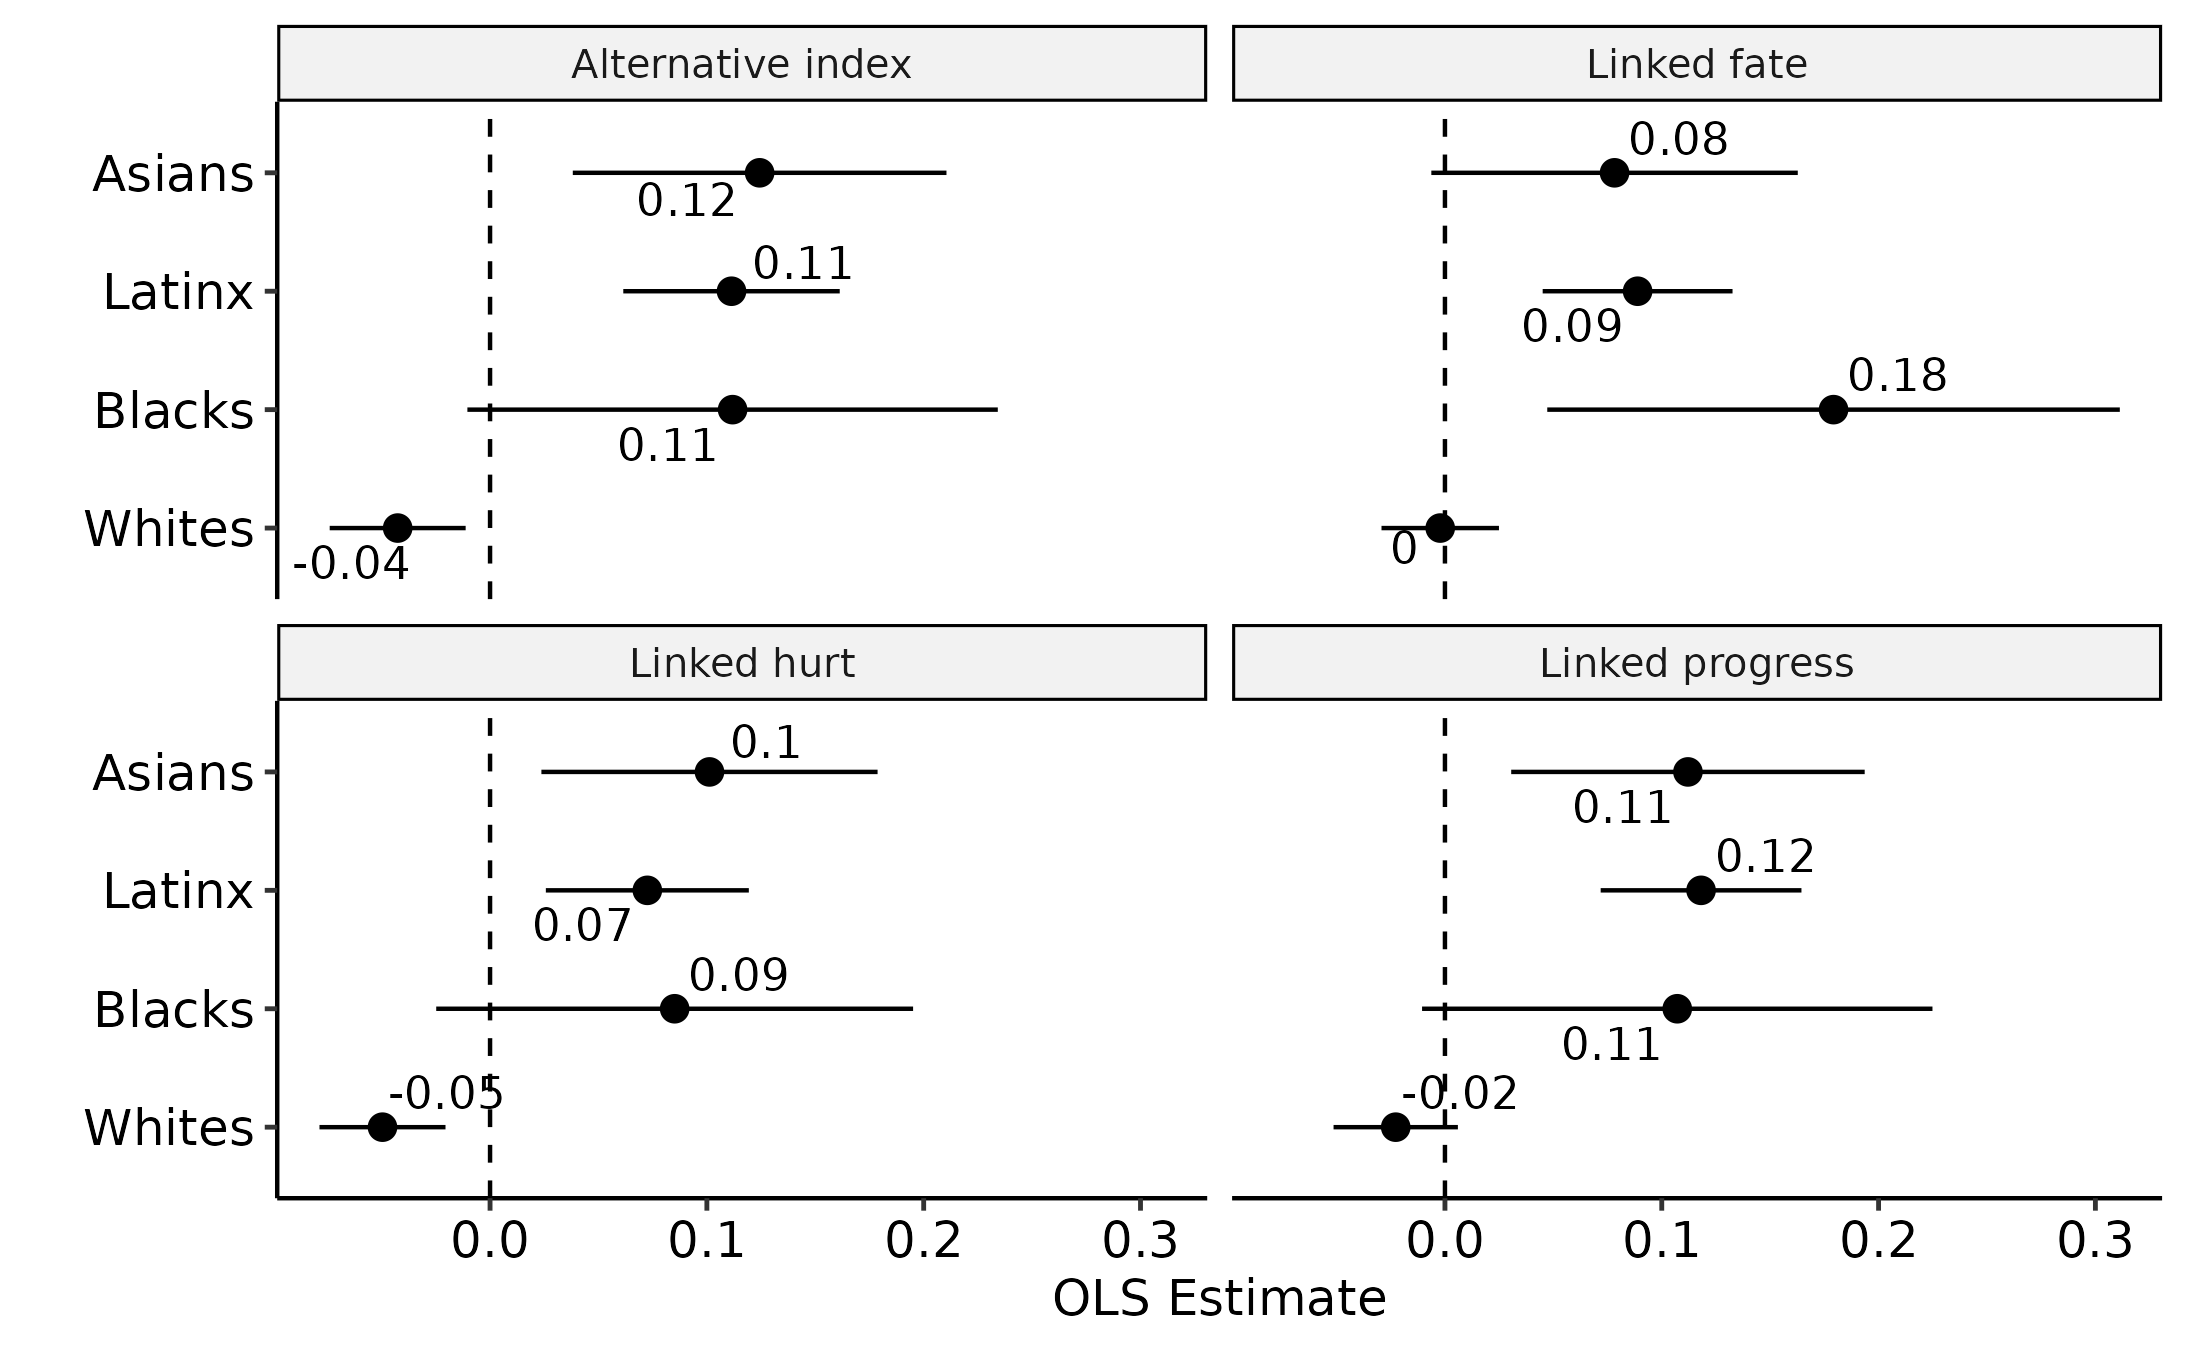
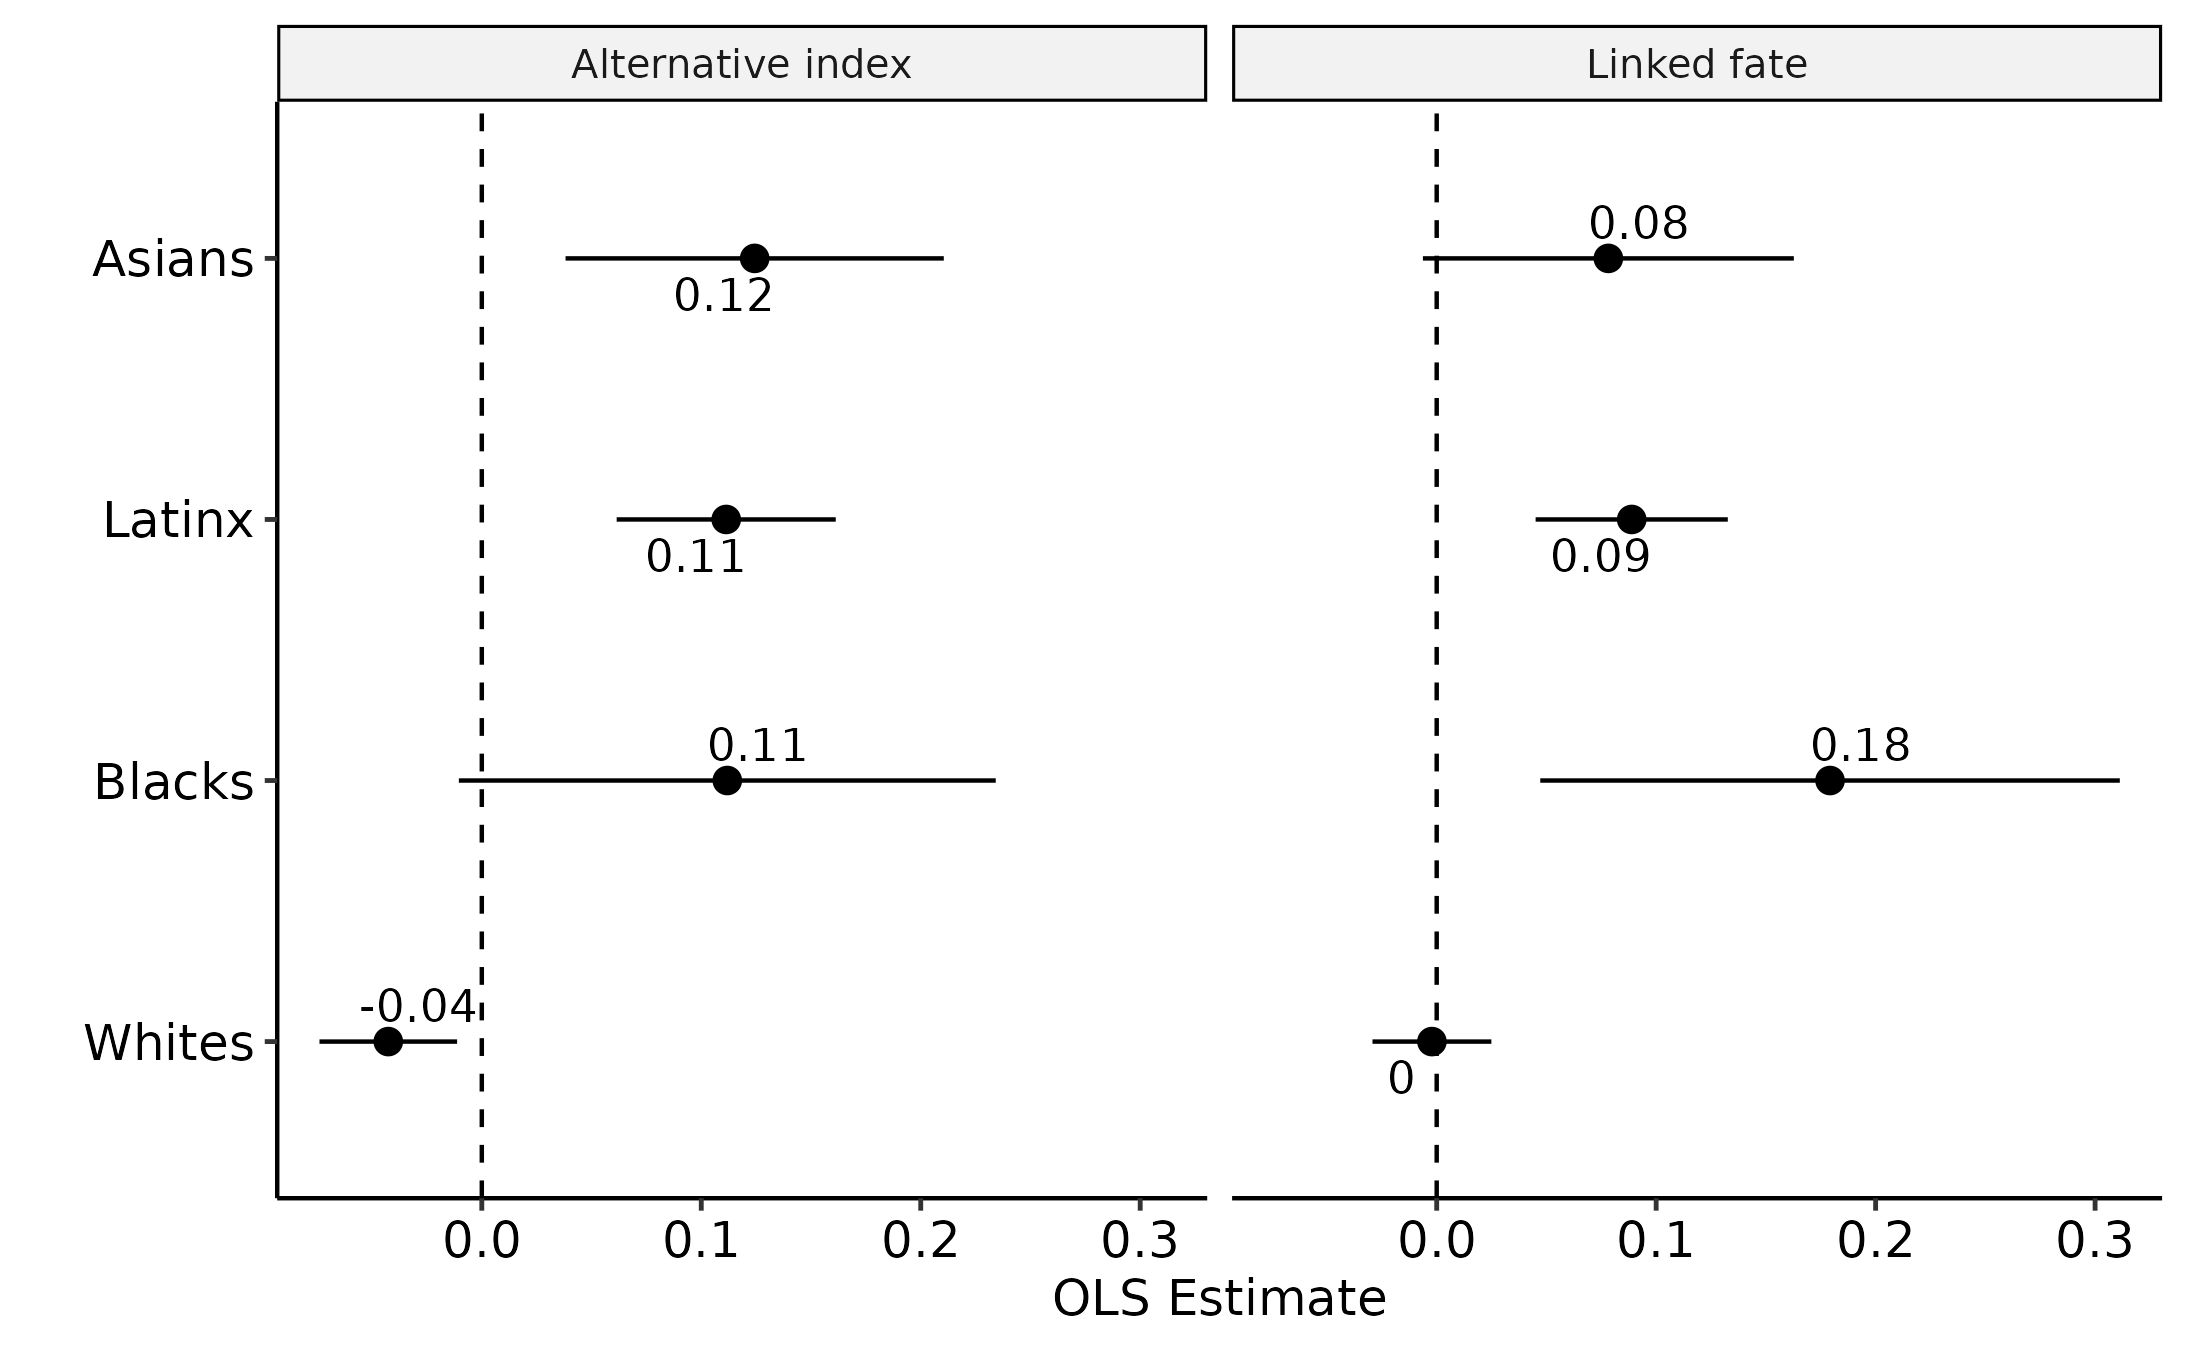
better visuals

diff --git a/README.md b/README.md
@@ -3,98 +3,3 @@
 **Identifying and validating multiple interpretations of linked fate**
 
 - Preprint: https://osf.io/preprints/socarxiv/k6c9x
-
-## Overview
-
-This project investigates how people interpret linked fate, a major measure of group consciousness in identity politics. Dawson's [*Behind the Mule*](https://books.google.com/books?hl=en&lr=&id=0-I9DwAAQBAJ&oi=fnd&pg=PP11&ots=sEoMI1VStP&sig=NLmBqid3hZa2GKO1lpMvSPdYTQo#v=onepage&q&f=false) (1994) argues that African Americans remain a cohesive racial group despite the growing within-group economic inequality, because the centuries-long experience of racial discrimination ties their individual and group utility together. He called this connection "linked fate", and since then, linked fate has become a popular measure of group solidarity across diverse group contexts (a Google Scholar search yields [more than 2700 results](https://scholar.google.com/scholar?hl=en&as_sdt=0%2C5&q=%22linked+fate%22&btnG=)).
-
-In this project, [Alan Yan](https://politics.princeton.edu/people/alan-yan) and I argue the linked fate literature has a measure problem. Scholars have measured the expressed strength of linked fate by asking survey respondents to what extent they agree that what happens to their group also influences their life. The issue is people may think about that connection in two different ways: **linked progress** and **linked hurt**. Linked progress is a positive mechanism which suggests that an individual thinks they progress when their group progresses. Linked hurt is a negative mechanism which indicates that an individual thinks that they get hurt when their group gets hurt. According to Dawson's black utility heuristics theory, the linked hurt interpretation is more plausible because discrimination is the driving force. But how do we know?
-
-Using a California-wide survey data (N = 4,435) and novel measures of linked fate, we demonstrated how distinguishing these interpretations matter for the empirical study of identity politics.
-
-1. Linked progress, on average, scored higher than linked hurt across all racial groups, including African Americans. This finding was inconsistent with Dawson's original theory.
-2. People expressed stronger group consciousness when they were asked about it through the standard linked fate question. White group consciousness disappeared when we used more specific linked fate questions. This finding raised a question about how white group politics are different from those of other racial groups.
-
-## Research design
-
-### Hypothesis
-
-The standard way of measuring linked fate is to ask the following question to the survey participants:
-
-- **Linked fate**: Do you agree or disagree? What happens to (Latinos/whites/blacks and African Americans/Asians/Pacific Islanders/American Indians) in this country will have something to do with what happens in my life.
-
-In addition to using this standard measure, we added two novel measures of linked fate that determine whether linked fate is interpreted in the context of a positive or a negative relationship between group and individual utility.
-
-- **Linked progress**: Do you agree or disagree? When things get better for (Latinos/whites/blacks and African Americans/Asians/Pacific Islanders/American Indians) in this country, then things will get better for me.
-- **Linked hurt**: Do you agree or disagree? When things get worse for (Latinos/whites/blacks and African Americans/Asians/Pacific Islanders/ American Indians) in this country, then things will get worse for me.
-
-Our main hypotheses were as follows:
-1. Linked fate, linked progress, and linked hurt will yield statistically different levels of responses.
-2. If the measure is consistent with Dawson's theory, linked hurt will be more strongly correlated with linked hurt than linked progress responses, especially among African Americans (convergent validity).
-
-### Data collection
-
-We tested this hypothesis by embedding the above three questions in a California-wide survey (n = 4,435), carried out by the Institute of Government Studies at the University of California Berkeley in June 2019.
-
-- Random sampling: Random sampling was used based on publicly available email addresses in voter records as a sampling frame (see this [link](https://www.latimes.com/politics/la-na-pol-2020-how-poll-was-done-20190613-story.html) for more information on their sampling methods and this [link](https://sda.berkeley.edu/sdaweb/docs/IGS_2019_02/DOC/hcbkfx0.htm) for list of items used in the survey).
-- Random ordering: These questions were randomly ordered to accout for order bias.
-- Multiple choices: The responses to these questions were collected using four multiple choices (1 - Agree strongly, 2 - Agree somewhat, 3 - Disagree somewhat, 4 - Disagree strongly).
-
-## Workflow
-
-In the rest of the document, I describe how I have **cleaned**, **analyzed**, and **visualized** data. I have shared the R code I used in each step.
-
-### Data cleaning \[[Code](https://github.com/jaeyk/validating-two-linked-fates/blob/master/code/01_data_cleaning.Rmd)]
-
-- I recoded linked fate-related questions as follows: `4-strongly positive, 3-somewhat positive, 2- somewhat negative, 1-strongly negative`. This scale made it easier to interpret the results.
-- I identified missing responses from linked fate questions, which represented 5–6% of the responses, and inputted them using multiple additions (the `mice` package in R).
-- I only included participants who identified as white, African American, Latinx, and Asian American. Consequently, I dropped 150 participants (3% of the total number of participants) who were non-identified using these measures.
-
-### Data analysis and visualization \[[Code](https://github.com/jaeyk/validating-two-linked-fates/blob/master/code/02_data_analysis.Rmd)]
-
-#### Measures of Central Tendency
-
-![](https://github.com/jaeyk/validating-two-linked-fates/blob/master/outputs/descriptive_stat_plot.png)
-Figure 1. Mean and Standard Errors
-
-In Figure 1, the x-axis indicates the average score of responses to linked fate-related questions. The y-axis charts different racial groups. The mean describes the central tendency of the responses. The limitation is that it does not show how these data points are spread. For that reason, I also included the standard errors, which are indicated by the error bars. One side of the error bar indicates two standard errors.
-
-Figure 1 clearly demonstrates how the use of a different measure for linked fate yields a different level of response. Overall, the standard linked fate question drew the strongest expressed support for linked fate. On average, linked progress scored higher than linked hurt across all racial groups, including African Americans. These results do not necessarily mean that Dawson's theory is wrong because the data also provides evidence for the presence of linked hurt. However, the theory has failed to include the importance of linked progress mechanisms and its prevalence.
-
-#### Bar plots
-
-![](https://github.com/jaeyk/validating-two-linked-fates/blob/master/outputs/bar_plot.png)
-Figure 2. Descriptive analysis
-
-In Figure 2, the x-axis indicates the multi-choices offered in the linked fate questions. The y-axis plots the count of these choices. This more detailed look at the data reveals several interesting patterns.
-
-The pattern for the responses to the linked fate questions among African American respondents is consistent with the prediction of the black utility heuristics theory. The distribution is skewed left. It shows almost unanimous support for black solidarity.
-
-However, the same respondents became more skeptical when they were asked about the specific connection between their group and individual utility. We can see similar patterns across other racial groups, with white respondents’ answers representing an extreme example. In that case, the respondents began to disagree with the idea of white group consciousness more than they agreed with it.
-
-#### Reliability tests
-
-As the next step, I examined the correlation between the standard and nobel linked fate measures. The theory predicts that the responses of the standard linked fate measure should covary more closely with the responses of the linked hurt measure than with those of the linked progress measure. This hypothesis was not true across all racial groups except whites, where the correlation coefficients between these two relationships were quite close.
-
-I calculated the correlation coefficients using four different methods, as these methods made slightly different assumptions about the distribution of data points. The differences between them provided some additional insights into the data. The Pearson correlation coefficients assume that the two variables being measured have a linear relationship. These coefficients showed the highest numbers. The Spearman correlation coefficients are non-parametric, specifically rank-based measures. These measures provide smaller coefficients. 
-
-![](https://github.com/jaeyk/validating-two-linked-fates/blob/master/outputs/cor_coeffs_plot.png)
-Figure 3. Correlation tests results
-
-#### Difference of means test
-
-Finally, I would like to revisit Figure 1 and stress the extent to which using the standard linked fate question creates more positive responses compared to the more specific question. Here, the left panel (Hurt - Fate) shows the mean difference between the responses of the linked hurt question and those of the standard linked fate question. Similarly, the right panel (Progress - Fate) displays the mean difference between the responses of the linked progress question and those of the standard linked fate question. The x-axis charts different racial groups. The y-axis indicates the difference in means. In both cases, it is clear that using a specific question decreases the ratio of positive responses. The ratio decreases faster in the case of the linked hurt than that of the linked hurt question. In that regard, white respondents showed the most extreme tendency.
-
-![](https://github.com/jaeyk/validating-two-linked-fates/blob/master/outputs/diff_in_means_plot.png)
-Figure 4. The difference in means test results
-
-#### Regression analysis [TBD]
-
-![](https://github.com/jaeyk/validating-two-linked-fates/blob/master/outputs/ols_coeffs.png)
-Figure 5. OLS estimates
-
-#### Concluding remarks
-
-1. Why was the standard linked question able to generate the most positive responses? One possibility was because the wording was vague and general. Thus, it left room for respondents to interpret the question in whatever way they preferred.
-2. Our study suggested two possible interpretations of the linked fate question and showed both supportive and not supportive evidence for the black utility heuristics theory. The negative mechanism was present, but the positive mechanism was prevailing, even for African Americans.
-3. Researchers should use caution when directly applying the standard linked fate question to whites. The survey results showed that whites clearly interpreted and reacted to the idea of group consciousness differently compared to other racial groups.
